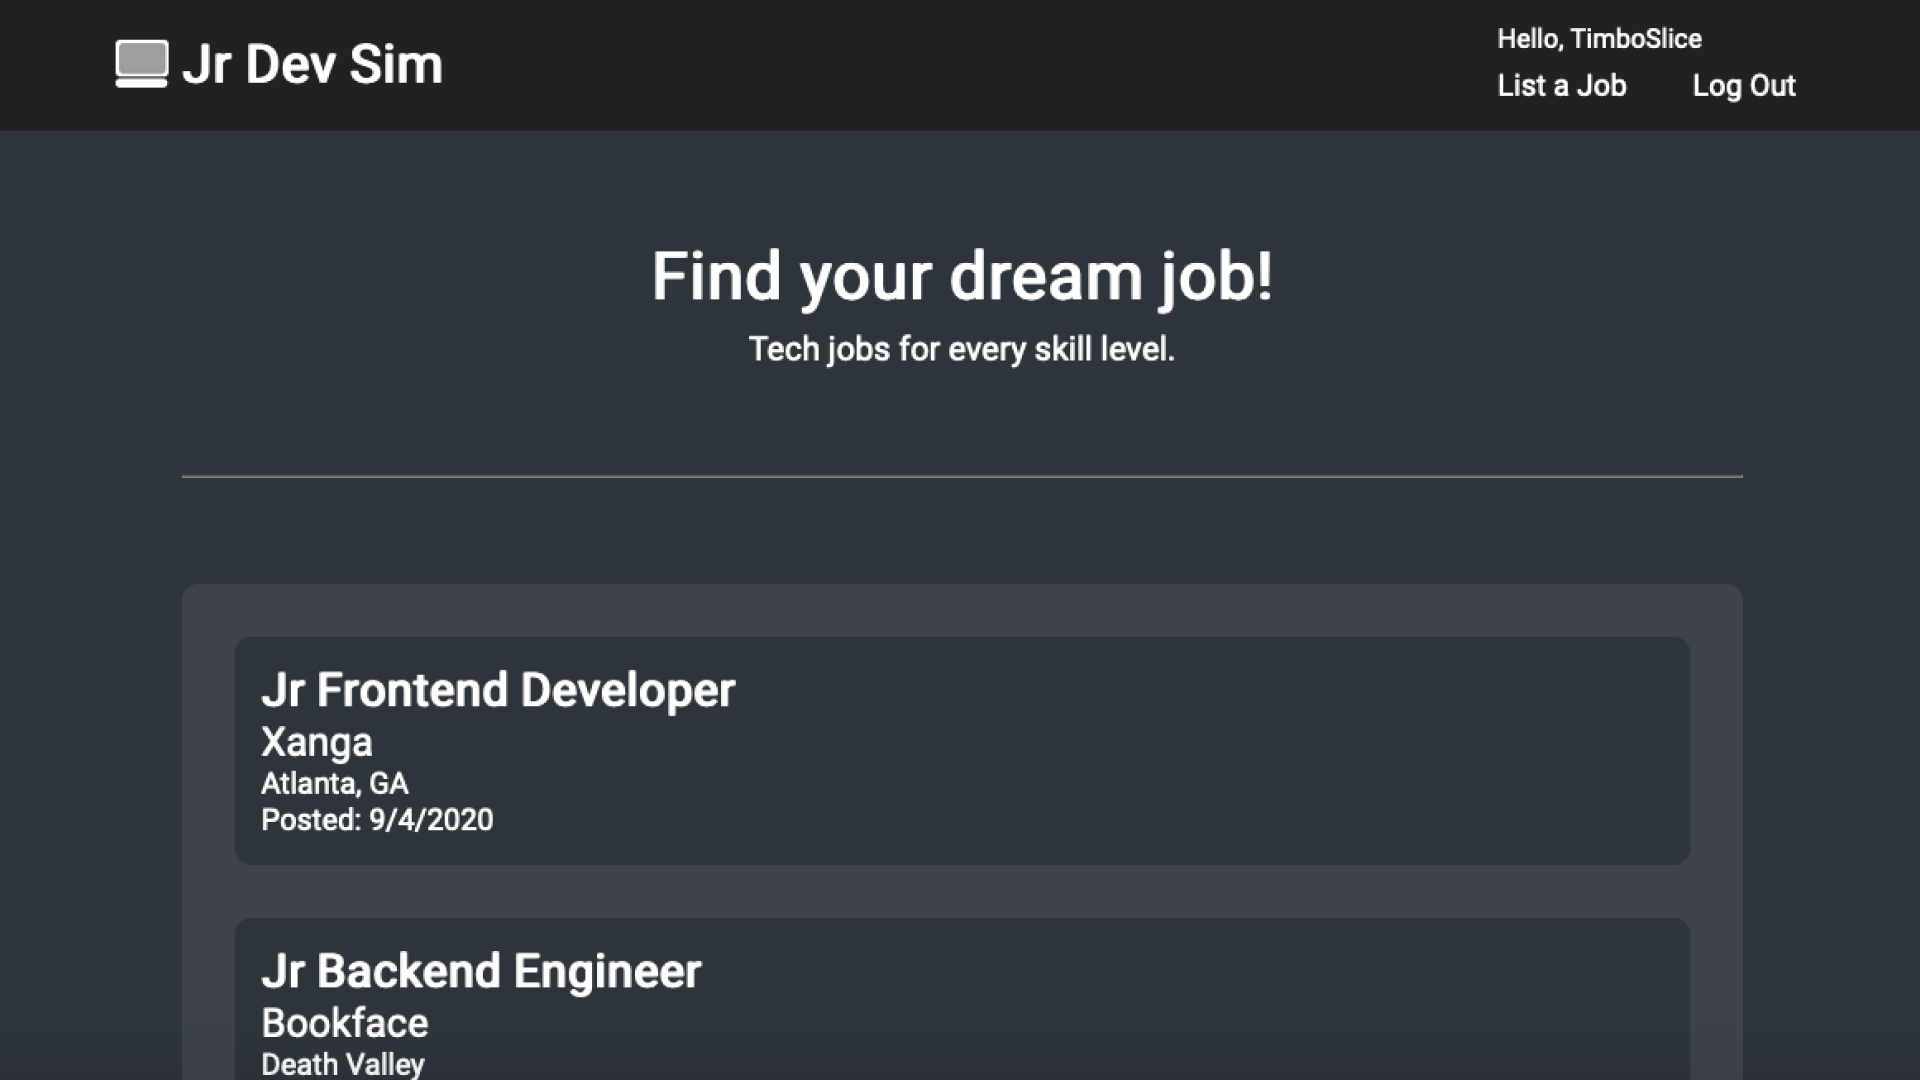
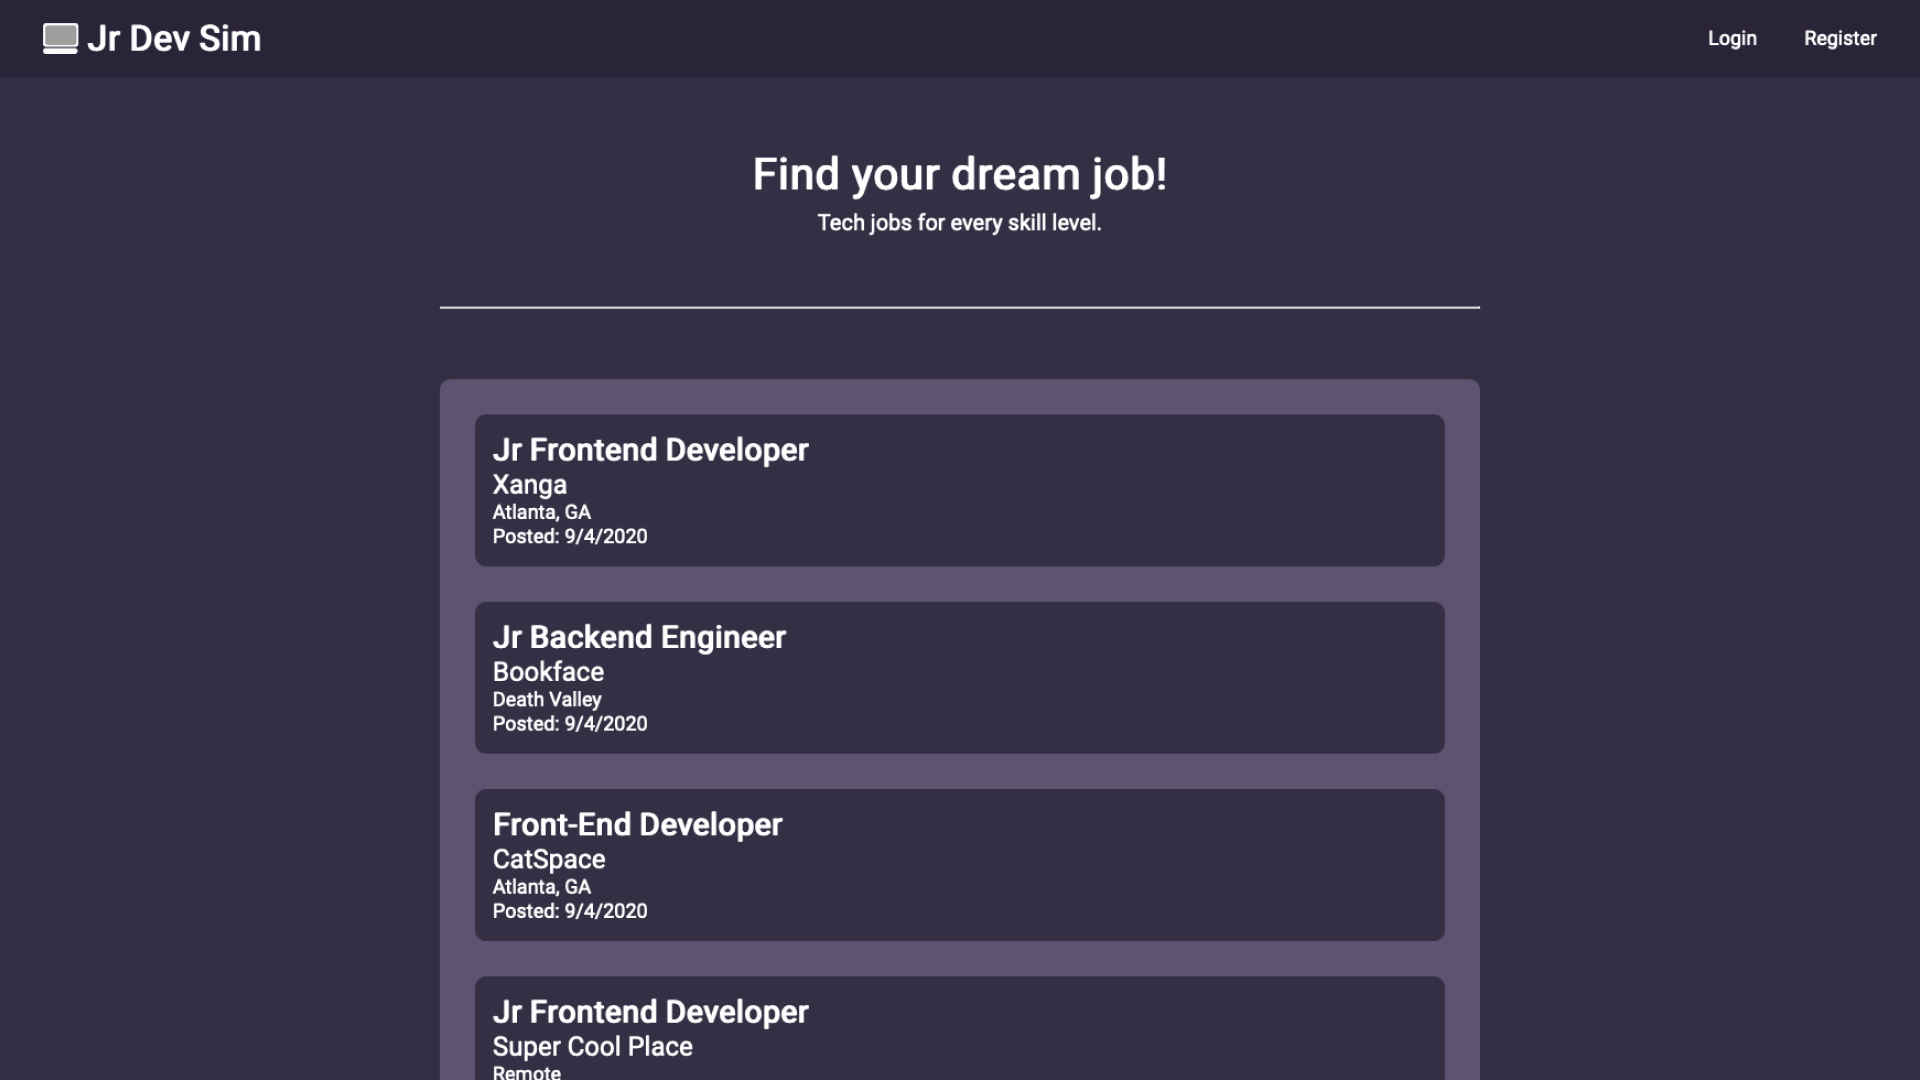
All purple everything

Changed region(s): [[0.125, 0.1528, 0.7812, 1.0], [0.0, 0.0, 1.0, 0.1222]]

diff --git a/frontend/src/styles/SingleJobWrapper.js b/frontend/src/styles/SingleJobWrapper.js
@@ -1,7 +1,7 @@
 import styled from "styled-components";
 
 const SingleJobWrapper = styled.div`
-  background: #282d33;
+  background: #2a2438;
   padding: 2rem;
   border-radius: 10px;
   color: #fff;
@@ -55,7 +55,7 @@ const SingleJobWrapper = styled.div`
   }
 
   .apply-button {
-    background: #e74990;
+    background: #b232aa;
     width: 200px;
   }
 
@@ -64,7 +64,7 @@ const SingleJobWrapper = styled.div`
     flex-direction: column;
     align-items: center;
     margin-top: 2rem;
-    background: #3d4349;
+    background: #5c5470;
     color: #fff;
     border-radius: 10px;
     width: 50%;

diff --git a/frontend/src/styles/FormWrapper.js b/frontend/src/styles/FormWrapper.js
@@ -4,14 +4,14 @@ const FormWrapper = styled.div`
   display: flex;
   flex-direction: column;
   align-items: center;
-  background: #3d4349;
+  background: #5c5470;
   padding: 2rem;
   color: #fff;
   border-radius: 10px;
 
   form {
     display: grid;
-    background: #2e343b;
+    background: #352f44;
     padding: 0 1rem;
     border-radius: 10px;
     margin: 2rem 0;
@@ -42,7 +42,7 @@ const FormWrapper = styled.div`
     border-radius: 10px;
     padding: 0.3rem 0;
     font-size: 1rem;
-    background: #e74990;
+    background: #b232aa;
     color: #fff;
     border: none;
   }

diff --git a/frontend/src/pages/JobList.js b/frontend/src/pages/JobList.js
@@ -7,7 +7,7 @@ import styled from "styled-components";
 import Hero from "../components/Hero";
 
 const JobListWrapper = styled.div`
-  background: #3d4349;
+  background: #5c5470;
   padding: 2rem;
   border-radius: 10px;
   display: grid;
@@ -29,7 +29,7 @@ const JobListWrapper = styled.div`
   article {
     padding: 1rem;
     border-radius: 10px;
-    background: #2e343b;
+    background: #352f44;
     color: #fff;
   }
 

diff --git a/frontend/src/styles/GlobalStyles.js b/frontend/src/styles/GlobalStyles.js
@@ -8,7 +8,7 @@ const GlobalStyles = createGlobalStyle`
 }
 
 body {
-    background: #2e343b;
+    background: #352f44;
     font-family: 'Roboto', sans-serif;
     position: relative;
     min-height: 100vh;
@@ -42,6 +42,10 @@ a {
 
 p {
     white-space: pre-line;
+}
+
+hr {
+    color: #fff;
 }
 
 @media screen and (max-width: 1200px) {

diff --git a/frontend/src/components/Nav.js b/frontend/src/components/Nav.js
@@ -9,7 +9,7 @@ const HeaderWrap = styled.header`
   justify-content: space-between;
   align-items: center;
   padding: 1rem 8rem;
-  background: #232023;
+  background: #2a2438;
   color: #fff;
   margin-bottom: 4rem;
 

diff --git a/frontend/src/components/Footer.js b/frontend/src/components/Footer.js
@@ -4,7 +4,7 @@ import styled from "styled-components";
 const FooterWrap = styled.footer`
   padding: 1rem 8rem;
   color: #fff;
-  background: #3f3c3f;
+  background: #2a2438;
   width: 100%;
   margin-top: 4rem;
 
